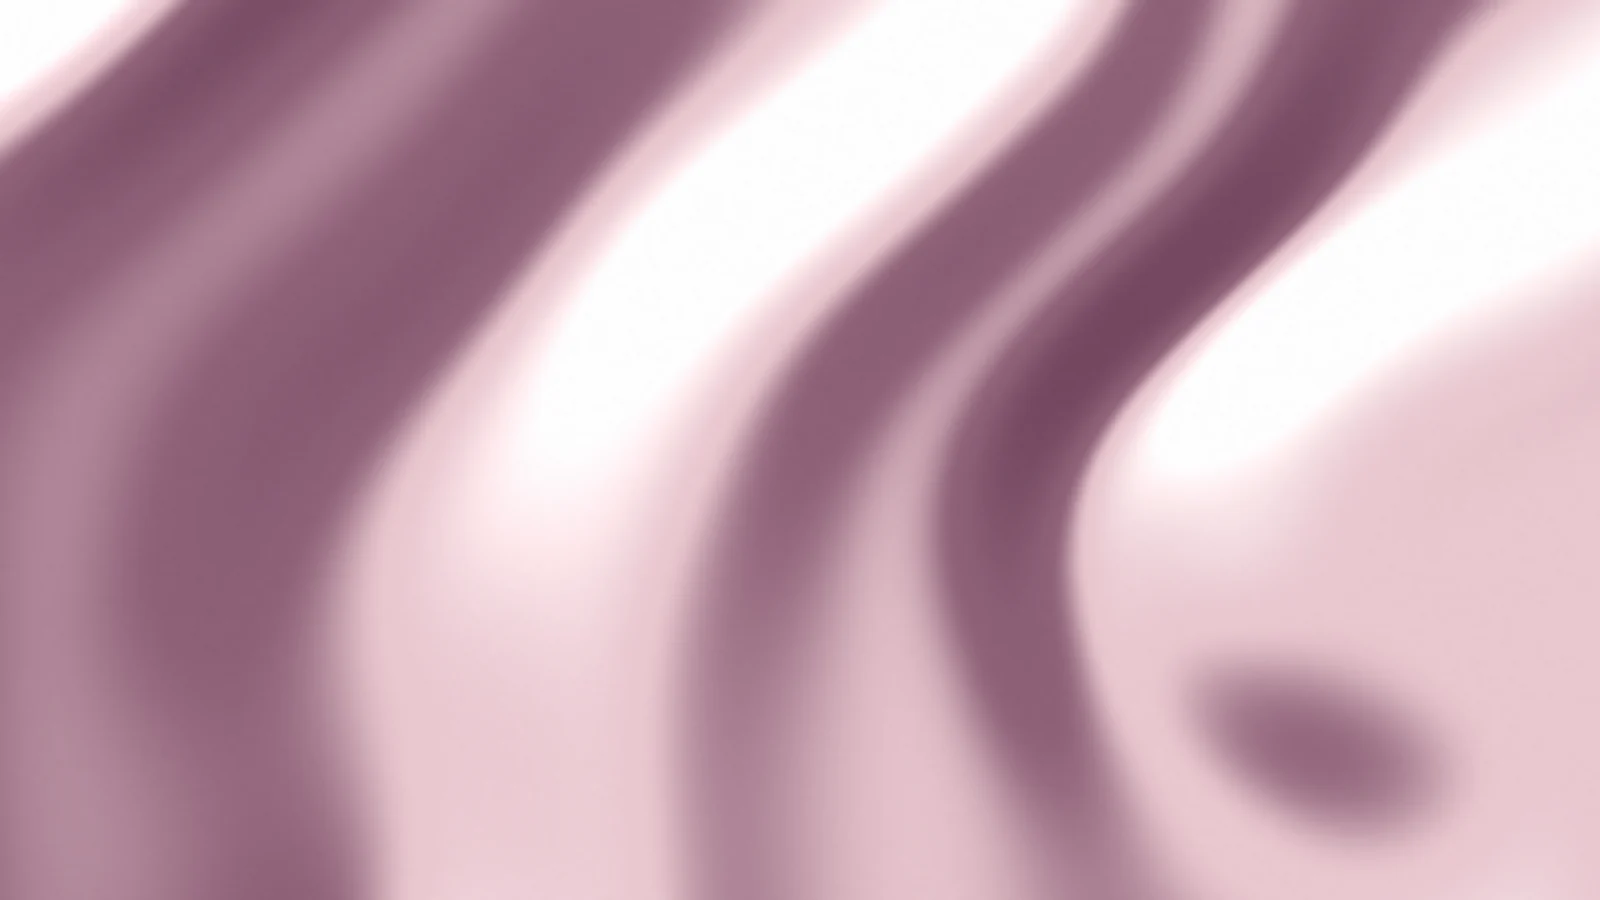
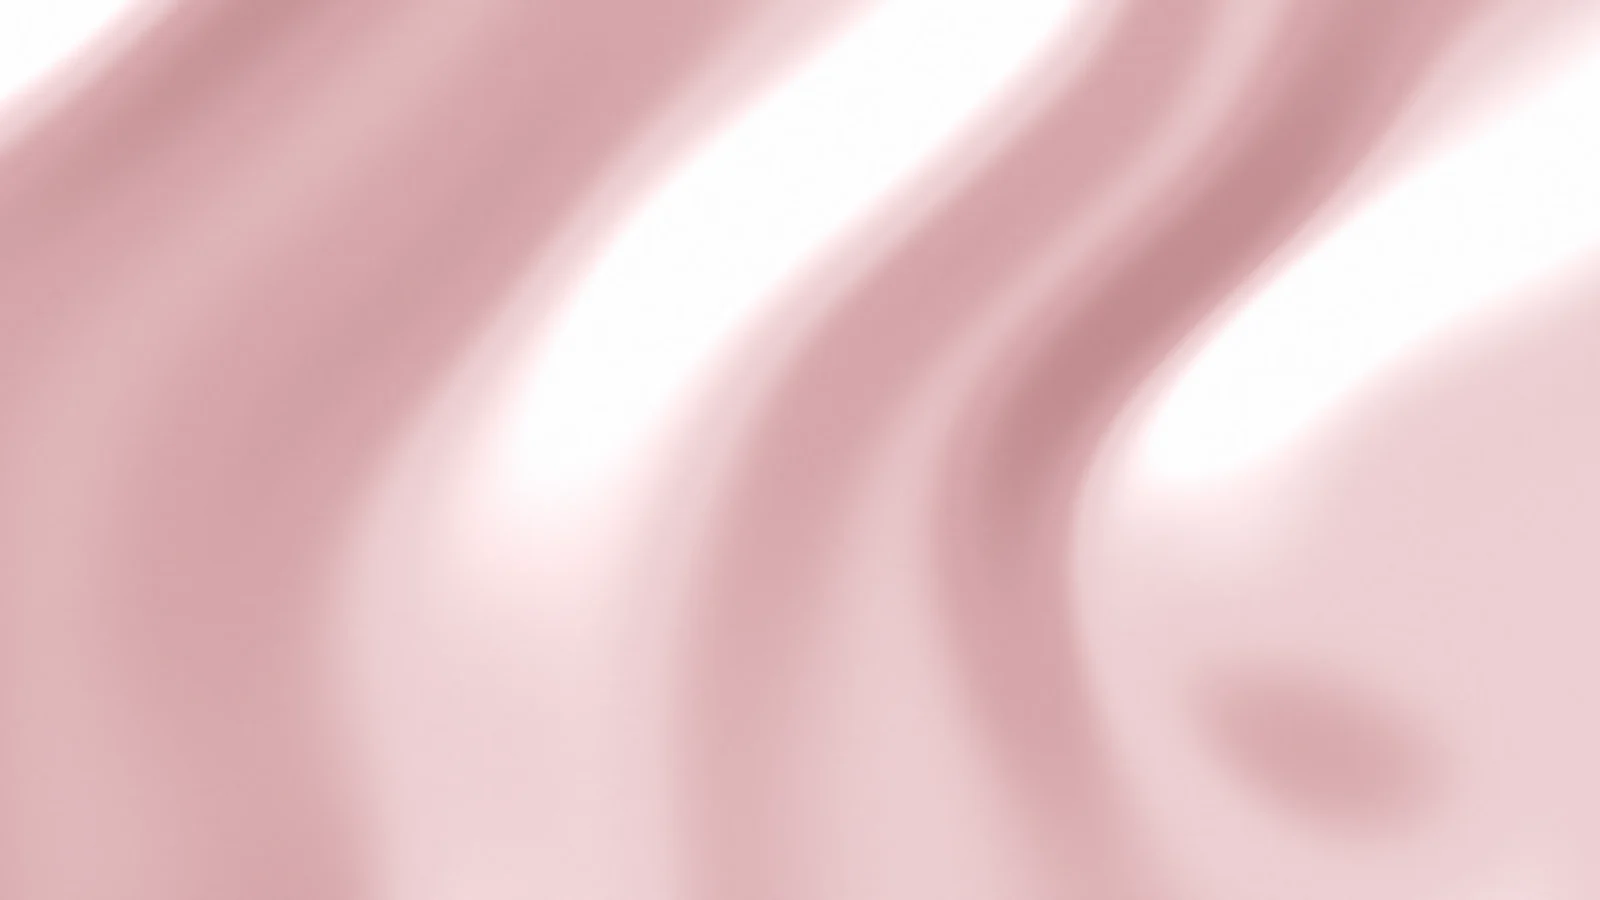
Fuera la vía láctea: seda verde musgo en su lugar (portada, equipo y app) y seda rosa sin ciruela

diff --git a/app/js/app.js b/app/js/app.js
@@ -1915,7 +1915,7 @@ function aboutSection() {
 }
 
 /** Imagen fluida de cada trimestre: seda rosa, seda melocotón y Vía Láctea (diseno/fluido/) */
-const flTrimester = (t) => (t <= 1 ? 'seda-rosa' : t === 2 ? 'seda-melocoton' : 'via-lactea-atardecer');
+const flTrimester = (t) => (t <= 1 ? 'seda-rosa' : t === 2 ? 'seda-melocoton' : 'seda-musgo');
 const flStrip = (img) => `<div class="fl-strip ${img}" aria-hidden="true"></div>`;
 /** Barra fina fija con «Pregúntanos» al bajar (en el ciclo, por todas las pestañas; en las etapas, por Hoy o Dudas): la etapa a la izquierda y la imagen de la tarjeta principal */
 function miniBar(mode, tab) {
@@ -1963,14 +1963,14 @@ const HITOS_KEY = 'hera-hitos-vistos';
 const hitosVistos = () => { try { return JSON.parse(localStorage.getItem(HITOS_KEY) || '[]'); } catch { return []; } };
 const PREG_HITOS = {
   14: ['seda-melocoton', 'Empiezas el segundo trimestre', 'Para muchas mujeres es la etapa más llevadera: suelen ceder las náuseas y el cansancio, y pronto empezarás a notar a tu bebé.'],
-  28: ['via-lactea-atardecer', 'Empiezas el tercer trimestre', 'La recta final. Tu bebé gana peso cada semana y es buen momento para pensar en la preparación al parto.'],
-  37: ['via-lactea-atardecer', 'Tu embarazo ya está a término', 'Desde esta semana tu bebé puede nacer cualquier día. Ten a mano la bolsa del hospital y el registro de contracciones.'],
+  28: ['seda-musgo', 'Empiezas el tercer trimestre', 'La recta final. Tu bebé gana peso cada semana y es buen momento para pensar en la preparación al parto.'],
+  37: ['seda-musgo', 'Tu embarazo ya está a término', 'Desde esta semana tu bebé puede nacer cualquier día. Ten a mano la bolsa del hospital y el registro de contracciones.'],
 };
 const PP_HITOS = {
-  0: ['via-lactea-atardecer', 'Tu bebé ya está aquí', 'Enhorabuena. Estos primeros días son de conoceros, descansar cuando puedas y pedir ayuda sin reparo.'],
+  0: ['seda-musgo', 'Tu bebé ya está aquí', 'Enhorabuena. Estos primeros días son de conoceros, descansar cuando puedas y pedir ayuda sin reparo.'],
   13: ['seda-rosa', 'Tres meses juntos', 'Muchos bebés empiezan ahora a sonreír más, a seguir con la mirada y a dormir algo más seguido.'],
   26: ['seda-melocoton', 'Medio año', 'Llega la alimentación complementaria y muchos bebés empiezan a sentarse con apoyo.'],
-  52: ['via-lactea-atardecer', 'Su primer año', 'Un año entero. Gracias por dejarnos acompañaros.'],
+  52: ['seda-musgo', 'Su primer año', 'Un año entero. Gracias por dejarnos acompañaros.'],
 };
 function hitoCard(kind, week) {
   const h = (kind === 'preg' ? PREG_HITOS : PP_HITOS)[week];
@@ -1990,7 +1990,7 @@ function hitoCard(kind, week) {
 const BABY_SECS = new Set(['rn', 'b0', 'bsl', 'bb', 'bsal', 'bdes', 'bfam']);
 const MOTHER_SECS = new Set(['pp', 'bal', 'ppc', 'emo']);
 function guideTile(id) {
-  const [img, ico] = BABY_SECS.has(id) ? ['via-lactea-atardecer', '<circle cx="12" cy="9" r="4"/><path d="M5 20c1.2-3.4 3.8-5 7-5s5.8 1.6 7 5"/>']
+  const [img, ico] = BABY_SECS.has(id) ? ['seda-musgo', '<circle cx="12" cy="9" r="4"/><path d="M5 20c1.2-3.4 3.8-5 7-5s5.8 1.6 7 5"/>']
     : MOTHER_SECS.has(id) ? [id === 'emo' ? 'seda-rosa' : 'seda-melocoton', '<path d="M12 20s-7-4.4-7-9.5A4 4 0 0 1 12 8a4 4 0 0 1 7 2.5C19 15.6 12 20 12 20Z"/>']
     : ['seda-rosa', '<circle cx="12" cy="13" r="6.5"/><path d="M9 6.8c.9-1.7 2.4-2.8 4.5-3"/>'];
   return `<span class="fl-tile ${img}" aria-hidden="true"><svg width="20" height="20" viewBox="0 0 24 24" fill="none" stroke="#fff" stroke-width="1.7" stroke-linecap="round" stroke-linejoin="round">${ico}</svg></span>`;

diff --git a/app/styles.css b/app/styles.css
@@ -653,7 +653,7 @@ label.field { padding: 8px 14px; }
 .fl-tile svg { filter: drop-shadow(0 1px 2px rgba(40,48,43,.6)); }
 .fl-tile.seda-rosa { background-image: url('img/fluido/seda-rosa.webp'); }
 .fl-tile.seda-melocoton { background-image: url('img/fluido/seda-melocoton.webp'); }
-.fl-tile.via-lactea-atardecer { background-image: url('img/fluido/via-lactea-atardecer.webp'); background-size: 500%; background-position: 35% 50%; }
+.fl-tile.seda-musgo { background-image: url('img/fluido/seda-musgo.webp'); background-size: 500%; background-position: 35% 50%; }
 .self-center { align-self: center; }
 
 /* Campos numéricos del diario (peso, sueño, temperatura) */
@@ -992,12 +992,12 @@ body[data-stage="menopause"] { --st-soft: #F2E3C8; }
 .fl-strip { height: 64px; margin: -20px -20px 4px; border-radius: 19px 19px 0 0; background: #45574C center / cover; }
 .fl-strip.seda-rosa { background-image: url('img/fluido/seda-rosa.webp'); }
 .fl-strip.seda-melocoton { background-image: url('img/fluido/seda-melocoton.webp'); }
-.fl-strip.via-lactea-atardecer { background-image: url('img/fluido/via-lactea-atardecer.webp'); background-position: 40% 45%; }
+.fl-strip.seda-musgo { background-image: url('img/fluido/seda-musgo.webp'); background-position: 40% 45%; }
 /* Hitos */
 .hito { position: relative; display: grid; gap: 6px; padding: 22px 20px 20px; border-radius: 20px; color: #fff; background: #2F3631 center / cover; }
 .hito.seda-rosa { background-image: linear-gradient(180deg, rgba(40,48,43,.2), rgba(40,48,43,.6)), url('img/fluido/seda-rosa.webp'); }
 .hito.seda-melocoton { background-image: linear-gradient(180deg, rgba(40,48,43,.2), rgba(40,48,43,.6)), url('img/fluido/seda-melocoton.webp'); }
-.hito.via-lactea-atardecer { background-image: linear-gradient(180deg, rgba(22,27,24,.15), rgba(22,27,24,.5)), url('img/fluido/via-lactea-atardecer.webp'); background-position: 35% 45%; }
+.hito.seda-musgo { background-image: linear-gradient(180deg, rgba(22,27,24,.15), rgba(22,27,24,.5)), url('img/fluido/seda-musgo.webp'); background-position: 35% 45%; }
 .hito .serif-22 { color: #fff; font-size: 24px; }
 .hito p { color: rgba(255,255,255,.92); margin: 0; max-width: 32em; }
 .hito .upper { color: #F2B9A0; }
@@ -1022,7 +1022,7 @@ body[data-stage="menopause"] { --st-soft: #F2E3C8; }
 @media (prefers-reduced-motion: reduce) { .mini-bar.on { animation: none; } }
 .mini-bar.seda-rosa { background-color: #45574C; background-image: linear-gradient(90deg, rgba(40,48,43,.55), rgba(40,48,43,.3)), url('img/fluido/seda-rosa.webp'); }
 .mini-bar.seda-melocoton { background-color: #5E7266; background-image: linear-gradient(90deg, rgba(40,48,43,.55), rgba(40,48,43,.3)), url('img/fluido/seda-melocoton.webp'); }
-.mini-bar.via-lactea-atardecer { background-color: #2F3631; background-image: linear-gradient(90deg, rgba(22,27,24,.45), rgba(22,27,24,.2)), url('img/fluido/via-lactea-atardecer.webp'); background-position: 40% 45%; }
+.mini-bar.seda-musgo { background-color: #2F3631; background-image: linear-gradient(90deg, rgba(22,27,24,.45), rgba(22,27,24,.2)), url('img/fluido/seda-musgo.webp'); background-position: 40% 45%; }
 .mini-label { display: grid; min-width: 0; line-height: 1.2; text-shadow: 0 1px 2px rgba(40,48,43,.5); }
 .mini-label b { font-family: var(--serif); font-weight: 500; font-size: 17px; white-space: nowrap; }
 .mini-label small { font-size: 11.5px; opacity: .9; white-space: nowrap; overflow: hidden; text-overflow: ellipsis; }

diff --git a/index.html b/index.html
@@ -291,14 +291,14 @@ section { padding: 64px 0; }
 /* Cierre y pie */
 .final { padding: 64px 0; }
 .band { border-radius: 12px; overflow: hidden; padding: 40px 24px; display: grid; gap: 28px; align-items: center; color: #fff;
-  background: linear-gradient(90deg, rgba(40,48,43,.62), rgba(40,48,43,.25) 55%, transparent 80%), url('portada/fluido/via-lactea-atardecer.webp') center / cover, var(--plum-d); }
+  background: linear-gradient(90deg, rgba(40,48,43,.72), rgba(40,48,43,.4) 55%, transparent 80%), url('portada/fluido/seda-musgo.webp') center / cover, var(--plum-d); }
 @media (min-width: 860px) { .band { grid-template-columns: 1.2fr .8fr; padding: 56px 48px; } }
 .band .kk { margin: 0 0 8px; font-size: 14px; color: rgba(255,255,255,.82); }
 .band h2 { color: #fff; margin: 0 0 12px; }
 .band .sub { color: rgba(255,255,255,.9); margin: 0 0 24px; max-width: 30em; }
 .btn-w { background: #fff; color: var(--ink); }
 .btn-w:hover { background: var(--rose); }
-.band .pic { aspect-ratio: 1; border-radius: 12px; background: url('portada/fluido/via-lactea-atardecer.webp') 30% 55% / 300%; }
+.band .pic { aspect-ratio: 1; border-radius: 12px; background: url('portada/fluido/seda-musgo.webp') 30% 55% / 300%; }
 @media (max-width: 859px) { .band .pic { display: none; } }
 .final .warn { font-size: 13.5px; color: var(--muted); margin: 16px 0 0; text-align: center; }
 footer { border-top: 1px solid var(--line); padding: 32px 0 40px; }
@@ -457,7 +457,7 @@ footer { border-top: 1px solid var(--line); padding: 32px 0 40px; }
         <div class="shot"><img src="portada/etapa-embarazo.jpg" width="560" height="1213" loading="lazy" alt="Hera en el embarazo: semana 20, segundo trimestre"></div>
       </div>
       <div class="stage lav">
-        <div class="tile" style="background-image:url('portada/fluido/via-lactea-atardecer.webp');background-size:400%;background-position:35% 50%" aria-hidden="true"><svg width="30" height="30" viewBox="0 0 24 24" fill="none" stroke="#fff" stroke-width="1.6" stroke-linecap="round" stroke-linejoin="round"><circle cx="12" cy="9" r="4"/><path d="M5 20c1.2-3.4 3.8-5 7-5s5.8 1.6 7 5"/></svg></div>
+        <div class="tile" style="background-image:url('portada/fluido/seda-musgo.webp');background-size:400%;background-position:35% 50%" aria-hidden="true"><svg width="30" height="30" viewBox="0 0 24 24" fill="none" stroke="#fff" stroke-width="1.6" stroke-linecap="round" stroke-linejoin="round"><circle cx="12" cy="9" r="4"/><path d="M5 20c1.2-3.4 3.8-5 7-5s5.8 1.6 7 5"/></svg></div>
         <h3>Posparto y tu bebé</h3>
         <p>Tu recuperación, la lactancia y el suelo pélvico. Y el primer año de tu bebé: lo normal a su edad, su peso, el sueño, las vacunas y cuándo ir a urgencias.</p>
         <div class="shot"><img src="portada/etapa-posparto.jpg" width="560" height="1213" loading="lazy" alt="Hera en el posparto: 4 semanas desde el parto"></div>

diff --git a/equipo.html b/equipo.html
@@ -58,7 +58,7 @@ h3 { font-family: 'Inter', sans-serif; font-size: 13px; font-weight: 600; letter
 .p-photo::before { content: ''; position: absolute; inset: 18px -14px -14px 18px; border-radius: 12px; background: center / cover; z-index: 0; }
 .p-photo.seda-rosa::before { background-image: url('portada/fluido/seda-rosa.webp'); }
 .p-photo.seda-melocoton::before { background-image: url('portada/fluido/seda-melocoton.webp'); }
-.p-photo.via-lactea::before { background-image: url('portada/fluido/via-lactea-atardecer.webp'); }
+.p-photo.seda-musgo::before { background-image: url('portada/fluido/seda-musgo.webp'); }
 .p-photo img { position: relative; z-index: 1; display: block; width: 100%; aspect-ratio: 1; object-fit: cover; border-radius: 12px; }
 .role { font-size: 16px; color: var(--mauve); font-weight: 600; margin: 0; }
 .bio p { margin: 14px 0 0; color: var(--text); max-width: 38em; }
@@ -74,7 +74,7 @@ h3 { font-family: 'Inter', sans-serif; font-size: 13px; font-weight: 600; letter
 .cta { margin-top: 24px; }
 
 .band { margin: 40px 0 64px; border-radius: 12px; padding: 36px 24px; color: #fff; text-align: center;
-  background: linear-gradient(90deg, rgba(40,48,43,.55), rgba(40,48,43,.3)), url('portada/fluido/via-lactea-atardecer.webp') center / cover, var(--plum-d); }
+  background: linear-gradient(90deg, rgba(40,48,43,.55), rgba(40,48,43,.3)), url('portada/fluido/seda-musgo.webp') center / cover, var(--plum-d); }
 .band h2 { color: #fff; margin: 0 0 10px; }
 .band p { margin: 0 auto 22px; color: rgba(255,255,255,.9); max-width: 30em; }
 .btn-w { background: #fff; color: var(--ink); }
@@ -166,7 +166,7 @@ footer { border-top: 1px solid var(--line); padding: 32px 0 40px; }
 
   <section class="person" id="lucia">
     <div class="wrap p-grid">
-      <div class="p-photo via-lactea"><img src="portada/equipo/lucia-grande.jpg" alt="Dra. Lucía Carrascón" width="500" height="500"></div>
+      <div class="p-photo seda-musgo"><img src="portada/equipo/lucia-grande.jpg" alt="Dra. Lucía Carrascón" width="500" height="500"></div>
       <div class="bio">
         <h2>Dra. Lucía Carrascón</h2>
         <p class="role">Especialista en Pediatría</p>

diff --git a/app/sw.js b/app/sw.js
@@ -2,7 +2,7 @@
 // Service worker de Hera web: permite abrir la app sin conexión.
 // Estrategia "red primero": siempre intenta la versión más reciente y usa la caché si no hay red.
 
-const CACHE = 'vera-web-v113';
+const CACHE = 'vera-web-v114';
 const SHELL = [
   './',
   'index.html',
@@ -33,7 +33,7 @@ const SHELL = [
   'img/equipo/gonzalo.jpg',
   'img/equipo/marina.jpg',
   'img/equipo/lucia.jpg',
-  'img/fluido/via-lactea-atardecer.webp',
+  'img/fluido/seda-musgo.webp',
   'img/fluido/seda-rosa.webp',
   'img/fluido/seda-melocoton.webp',
   'fonts/inter.woff2',
@@ -85,7 +85,7 @@ self.addEventListener('push', (event) => {
   try { data = event.data ? event.data.json() : {}; } catch { /* mensaje vacío */ }
   // Imagen grande (Android): Vía Láctea para el bebé y el tercer trimestre, seda para el resto
   const wk = Number((/^Semana (\d+)/.exec(data.title || '') || [])[1]);
-  const image = /regla/i.test(data.title || '') ? 'img/fluido/seda-rosa.webp' : `img/fluido/${!wk || wk >= 28 ? 'via-lactea-atardecer' : wk >= 14 ? 'seda-melocoton' : 'seda-rosa'}.webp`;
+  const image = /regla/i.test(data.title || '') ? 'img/fluido/seda-rosa.webp' : `img/fluido/${!wk || wk >= 28 ? 'seda-musgo' : wk >= 14 ? 'seda-melocoton' : 'seda-rosa'}.webp`;
   event.waitUntil(self.registration.showNotification(data.title || 'Hera', {
     body: data.body || '',
     image,

diff --git a/diseno/fluido/generar.py b/diseno/fluido/generar.py
@@ -170,5 +170,7 @@ if __name__ == '__main__':
     tinta('tinta-calida', 900, 600, 3, warm)
     tinta('tinta-ciruela', 900, 600, 21, ciruela)
     tinta('tinta-salvia', 900, 600, 42, salvia)
-    seda('seda-rosa', 1600, 900, 5, [(0, C['plum']), (0.35, C['mauve']), (0.65, C['blush']), (1, C['rose'])])
+    # Estilo Vera (2026-11-11): rosa sin ciruela y seda verde musgo en lugar de la vía láctea
+    seda('seda-rosa', 1600, 900, 5, [(0, hexrgb('#B98287')), (0.35, hexrgb('#D7A7AB')), (0.65, hexrgb('#EDCFD2')), (1, hexrgb('#F8E8EA'))])
+    seda('seda-musgo', 1600, 900, 11, [(0, hexrgb('#2F3631')), (0.3, hexrgb('#45574C')), (0.6, hexrgb('#6F8577')), (0.85, hexrgb('#B9CCBF')), (1, hexrgb('#EEF3EE'))], angle=0.9, freq=5.0)
     seda('seda-melocoton', 1600, 900, 11, [(0, C['mauve']), (0.3, C['apricot']), (0.6, C['peach']), (0.85, C['rose']), (1, C['cream'])], angle=0.9, freq=5.0)
